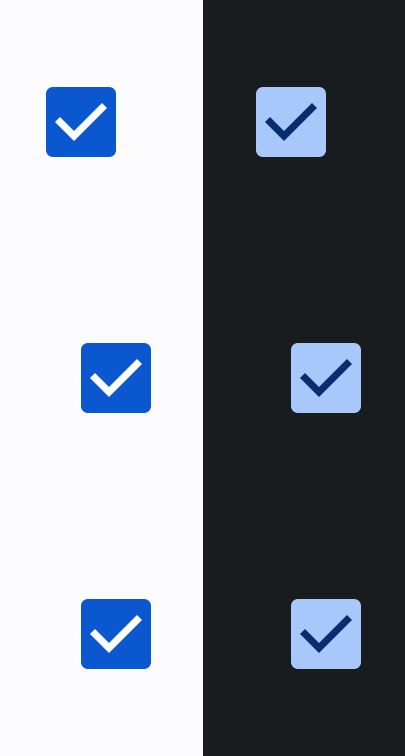
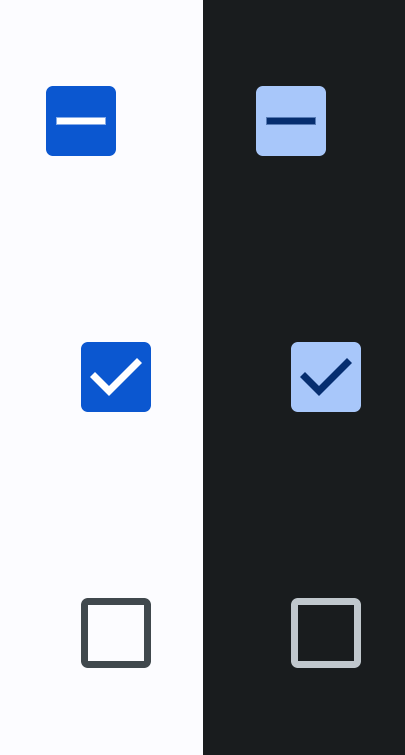
Change Checkbox Tri State image. Refactor code.

diff --git a/app/src/main/java/com/ivyapps/material3showcase/component/chip/SuggestionChip.kt b/app/src/main/java/com/ivyapps/material3showcase/component/chip/SuggestionChip.kt
@@ -1,8 +1,13 @@
 package com.ivyapps.material3showcase.component.chip
 
+import androidx.compose.foundation.shape.RoundedCornerShape
+import androidx.compose.material3.MaterialTheme
 import androidx.compose.material3.SuggestionChip
+import androidx.compose.material3.SuggestionChipDefaults
 import androidx.compose.material3.Text
 import androidx.compose.runtime.Composable
+import androidx.compose.ui.Modifier
+import androidx.compose.ui.unit.dp
 import com.airbnb.android.showkase.annotation.ShowkaseComposable
 import com.ivyapps.material3showcase.component.ComponentPreview
 import com.ivyapps.material3showcase.component.ShowcasePreview
@@ -41,12 +46,21 @@ fun SuggestionChipDefault() {
 fun SuggestionChipCustom() {
     ShowcasePreview() {
         SuggestionChip(
+            modifier = Modifier,
             onClick = {
                 /* Do something! */
             },
             label = {
                 Text("Thank you")
-            }
+            },
+            enabled = true,
+            shape = RoundedCornerShape(12.dp),
+            colors = SuggestionChipDefaults.suggestionChipColors(
+                containerColor = MaterialTheme.colorScheme.secondaryContainer,
+                labelColor = MaterialTheme.colorScheme.onSecondaryContainer,
+                disabledContainerColor = MaterialTheme.colorScheme.secondaryContainer,
+                disabledLabelColor = MaterialTheme.colorScheme.onSecondaryContainer
+            )
         )
     }
 }

diff --git a/app/src/main/java/com/ivyapps/material3showcase/component/chip/InputChip.kt b/app/src/main/java/com/ivyapps/material3showcase/component/chip/InputChip.kt
@@ -55,9 +55,9 @@ fun InputChipDefault() {
                 label = { Text("Person") },
                 avatar = {
                     Icon(
-                        Icons.Filled.Person,
-                        contentDescription = "Person",
-                        Modifier.size(InputChipDefaults.AvatarSize)
+                        modifier = Modifier.size(InputChipDefaults.AvatarSize),
+                        imageVector = Icons.Filled.Person,
+                        contentDescription = "Person"
                     )
                 }
             )
@@ -85,9 +85,9 @@ fun InputChipCustom() {
             label = { Text("Input") },
             avatar = {
                 Icon(
-                    Icons.Filled.Person,
-                    contentDescription = "Person",
-                    Modifier.size(InputChipDefaults.AvatarSize)
+                    modifier = Modifier.size(InputChipDefaults.AvatarSize),
+                    imageVector = Icons.Filled.Person,
+                    contentDescription = "Person"
                 )
             },
             enabled = true,

diff --git a/app/src/main/java/com/ivyapps/material3showcase/component/checkbox/TriStateCheckbox.kt b/app/src/main/java/com/ivyapps/material3showcase/component/checkbox/TriStateCheckbox.kt
@@ -49,7 +49,7 @@ fun TriStateCheckboxCustom() {
         Column {
             // define dependent checkboxes states
             val (state, onStateChange) = remember { mutableStateOf(true) }
-            val (state2, onStateChange2) = remember { mutableStateOf(true) }
+            val (state2, onStateChange2) = remember { mutableStateOf(false) }
 
             // TriStateCheckbox state reflects state of dependent checkboxes
             val parentState = remember(state, state2) {

diff --git a/app/src/main/java/com/ivyapps/material3showcase/component/chip/AssistChip.kt b/app/src/main/java/com/ivyapps/material3showcase/component/chip/AssistChip.kt
@@ -66,7 +66,7 @@ fun AssistChipCustom() {
             },
             leadingIcon = {
                 Icon(
-                    Icons.Filled.Call,
+                    imageVector = Icons.Filled.Call,
                     contentDescription = "Call",
                     Modifier.size(AssistChipDefaults.IconSize)
                 )
